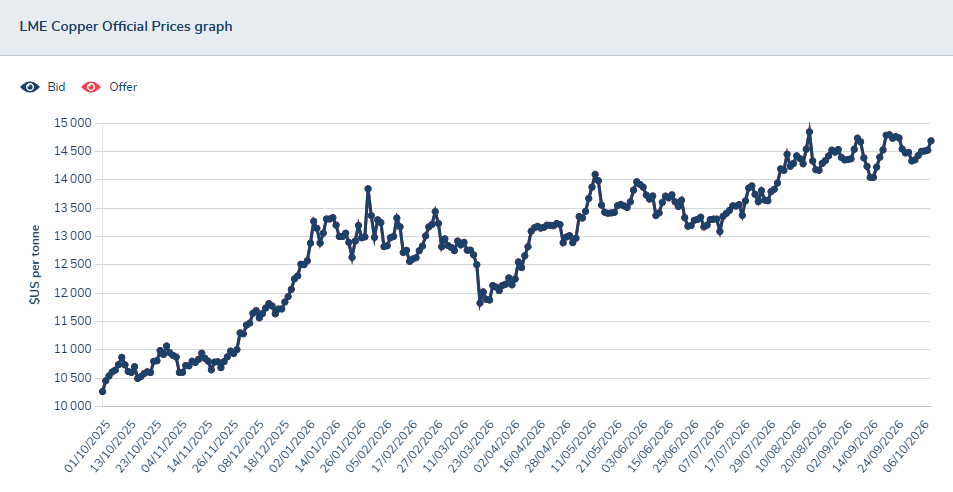
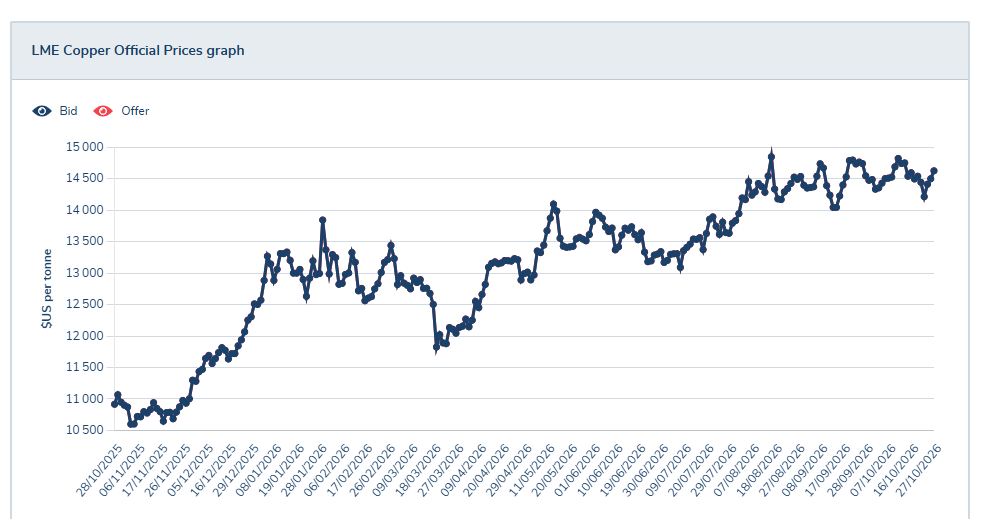
Indicateurs de marché : cuivre LME mis à jour (cours au 27.10.2026), date de révision 28.10.2026
Claude-Session: https://claude.ai/code/session_016aozrDweoiigfqF25TdjzY

diff --git a/public/catalogue.html b/public/catalogue.html
@@ -3670,7 +3670,7 @@ function renderMarketIndexDetail(data,current,diesel,canplast,brent,eurchf,usdch
     kbob:{upd:kbobLast(current),src:KBOB_SRC}, gaz:{upd:kbobLast('Gaz (artisanat, industries, services)'),src:KBOB_SRC}, elec:{upd:kbobLast('Electricité (artisanat, industries, services)'),src:KBOB_SRC},
     astag:{upd:dieselLast?'semaine du '+dateFR(dieselLast.weekStart):null,src:'ASTAG — prix moyen hebdomadaire du diesel'},
     corr:{upd:dieselLast?'semaine du '+dateFR(dieselLast.weekStart):null,src:'ASTAG et Brent'},
-    alu:{upd:'mis à jour le 28.10.2026 (cours au 27.10.2026)',src:'LME — Aluminium Official Prices'}, cuivre:{upd:CAPT,src:'LME'}, nickel:{upd:CAPT,src:'LME'}, zinc:{upd:'mis à jour le 28.10.2026 (cours au 27.10.2026)',src:'LME — Zinc Official Prices'}, ferraille:{upd:CAPT,src:'Platts'}, hrc:{upd:CAPT,src:'Argus'}, rebar:{upd:CAPT,src:'Platts'},
+    alu:{upd:'mis à jour le 28.10.2026 (cours au 27.10.2026)',src:'LME — Aluminium Official Prices'}, cuivre:{upd:'mis à jour le 28.10.2026 (cours au 27.10.2026)',src:'LME — Copper Official Prices'}, nickel:{upd:CAPT,src:'LME'}, zinc:{upd:'mis à jour le 28.10.2026 (cours au 27.10.2026)',src:'LME — Zinc Official Prices'}, ferraille:{upd:CAPT,src:'Platts'}, hrc:{upd:CAPT,src:'Argus'}, rebar:{upd:CAPT,src:'Platts'},
     acier:{upd:lastOf(acier.dates)?'relevé du '+dateFR(lastOf(acier.dates)):null,src:'Aurélien (Achats)'},
     brent:{upd:lastOf(brentDatesAll)?'semaine du '+dateFR(lastOf(brentDatesAll)):null,src:'Brent Crude Oil — clôtures hebdomadaires'},
     eurchf:{upd:lastOf(eDatesAll)?'semaine du '+dateFR(lastOf(eDatesAll)):null,src:'EUR/CHF spot — clôtures hebdomadaires'},
@@ -3712,7 +3712,7 @@ const mktSummaryRows=
 
   const panelAlu=`<div id="mkt-alu" class="marketDetailPanel" ${mktHidden('alu')}><div class="analysisBlock" style="margin-top:18px"><h3>🔩 Aluminium (LME)</h3><p class="muted">Cours LME Aluminium (USD/tonne), du 28.10.2025 au 27.10.2026 — <b>mis à jour le 28.10.2026</b> (capture LME, pas encore intégré comme série de données exploitable dans l'outil).</p><img src="/market_charts/aluminium.png?v=20261028" style="max-width:100%;border:1px solid #e5e9ef;border-radius:8px" alt="Aluminium (LME)"></div></div>`;
 
-  const panelCuivre=`<div id="mkt-cuivre" class="marketDetailPanel" ${mktHidden('cuivre')}><div class="analysisBlock" style="margin-top:18px"><h3>🟠 Cuivre (LME)</h3><p class="muted">Cours LME Cuivre (USD/tonne) — capture fournie, pas encore intégré comme série de données exploitable dans l'outil.</p><img src="/market_charts/cuivre.png" style="max-width:100%;border:1px solid #e5e9ef;border-radius:8px" alt="Cuivre (LME)"></div></div>`;
+  const panelCuivre=`<div id="mkt-cuivre" class="marketDetailPanel" ${mktHidden('cuivre')}><div class="analysisBlock" style="margin-top:18px"><h3>🟠 Cuivre (LME)</h3><p class="muted">Cours LME Cuivre (USD/tonne), du 28.10.2025 au 27.10.2026 — <b>mis à jour le 28.10.2026</b> (capture LME, pas encore intégré comme série de données exploitable dans l'outil).</p><img src="/market_charts/cuivre.png?v=20261028" style="max-width:100%;border:1px solid #e5e9ef;border-radius:8px" alt="Cuivre (LME)"></div></div>`;
 
   const panelNickel=`<div id="mkt-nickel" class="marketDetailPanel" ${mktHidden('nickel')}><div class="analysisBlock" style="margin-top:18px"><h3>⚙ Nickel (LME)</h3><p class="muted">Cours LME Nickel (USD/tonne) — capture fournie, pas encore intégré comme série de données exploitable dans l'outil.</p><img src="/market_charts/nickel.png" style="max-width:100%;border:1px solid #e5e9ef;border-radius:8px" alt="Nickel (LME)"></div></div>`;
 
